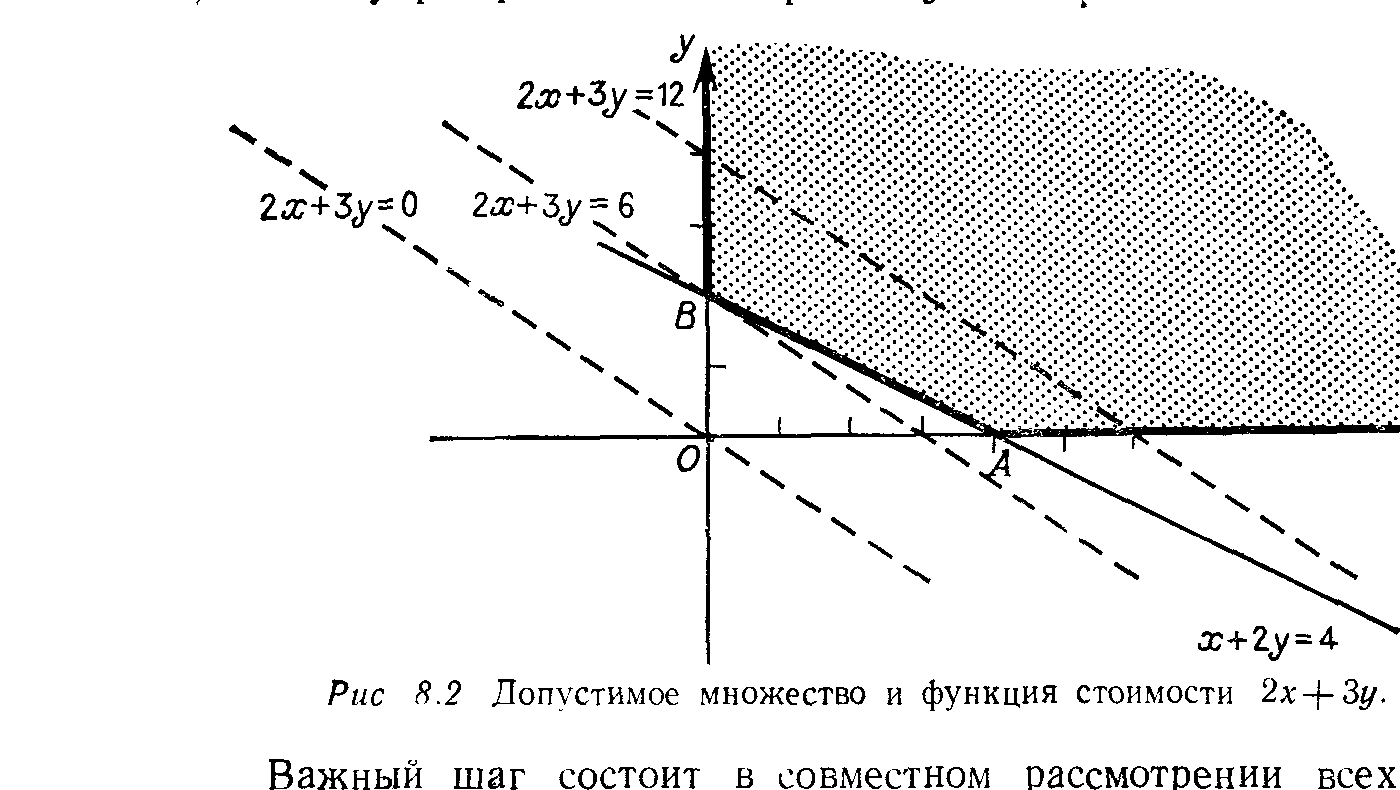
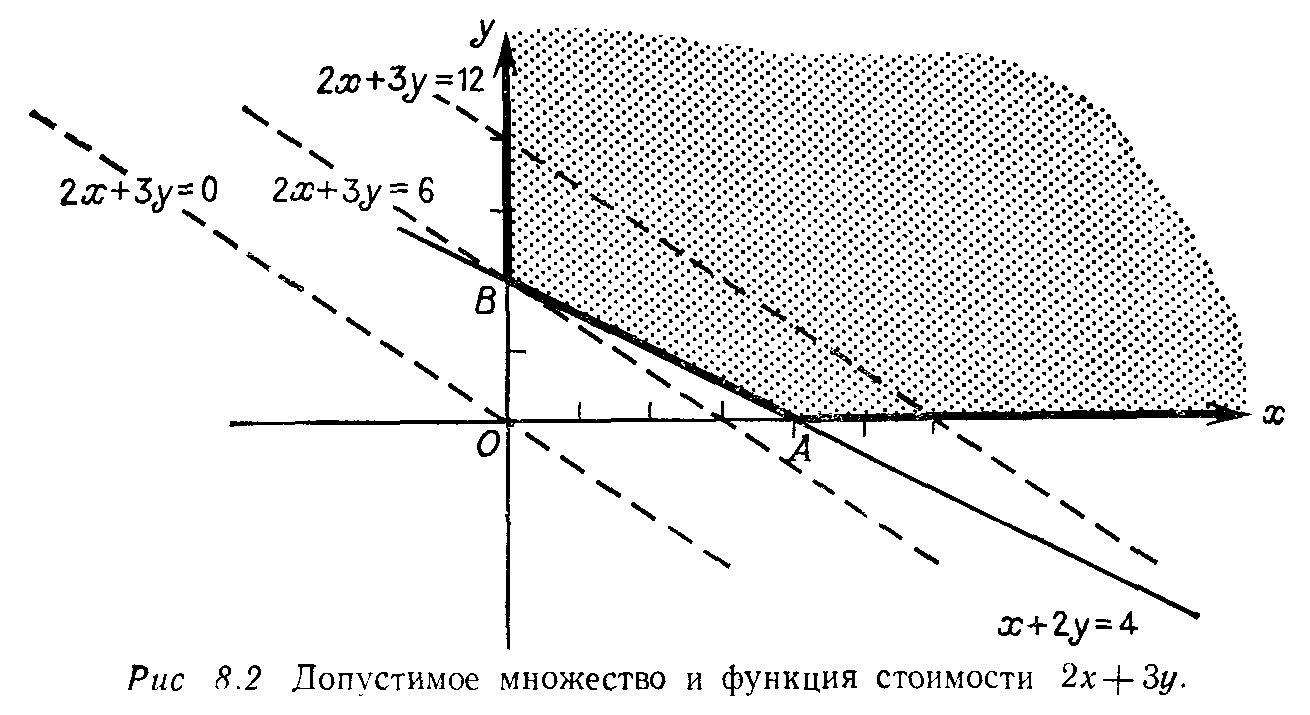
streng, reshebnik_beklemishev, sbornik_zadach, kostrikin_manin: 13 рисунков вырезаны заново — убраны обрывки текста у кромки (GF107, п.131)
apokrif figures recrop --from-crop-check, codex:gpt-5.6-sol@medium.
streng стр. 100, 101, 319, 354; reshebnik стр. 10, 11, 31, 45;
sbornik стр. 83 (Рис. 5, 8); kostrikin_manin стр. 222 (два), 240.
kostrikin_manin стр. 238 не взят: модель оставила от «Рис. 7» один
чертёж из двух — переделывается отдельно со старым кадром как образцом.

Claude-Session: https://claude.ai/code/session_016LgTLBejBq8sH5fBJep17c

diff --git a/angem/sbornik_zadach/sbz_g04_s10_uravneniya_mnozhestv_i_elementarnaya_teoriya.md b/angem/sbornik_zadach/sbz_g04_s10_uravneniya_mnozhestv_i_elementarnaya_teoriya.md
@@ -63,13 +63,13 @@ $$\begin{cases}\alpha\left(\dfrac{x}{a}+\dfrac{y}{b}\right)=\beta z, \\ \beta\le
 
 ![Рис. 4](assets/sbz_g04_s10_uravneniya_mnozhestv_i_elementarnaya_teoriya/p83-fig4.png)
 
-![Рис. 5](assets/sbz_g04_s10_uravneniya_mnozhestv_i_elementarnaya_teoriya/p83-fig5.png)
+![Рис. 5](assets/sbz_g04_s10_uravneniya_mnozhestv_i_elementarnaya_teoriya/p83-fig1.png)
 
 ![Рис. 6](assets/sbz_g04_s10_uravneniya_mnozhestv_i_elementarnaya_teoriya/p83-fig6.png)
 
 ![Рис. 7](assets/sbz_g04_s10_uravneniya_mnozhestv_i_elementarnaya_teoriya/p83-fig7.png)
 
-![Рис. 8](assets/sbz_g04_s10_uravneniya_mnozhestv_i_elementarnaya_teoriya/p83-fig8.png)
+![Рис. 8](assets/sbz_g04_s10_uravneniya_mnozhestv_i_elementarnaya_teoriya/p83-fig2.png)
 
 ![Рис. 9](assets/sbz_g04_s10_uravneniya_mnozhestv_i_elementarnaya_teoriya/p83-fig9.png)
 

diff --git a/angem/kostrikin_manin/kostrikin_manin_g03_s09_konfiguratsii_dezarga_i_pappa.md b/angem/kostrikin_manin/kostrikin_manin_g03_s09_konfiguratsii_dezarga_i_pappa.md
@@ -34,7 +34,7 @@
 
 **4. Конфигурация Паппа.** Рассмотрим в проективной плоскости две разные прямые и две тройки лежащих на них попарно разных точек $p_1$, $p_2$, $p_3$ и $q_1$, $q_2$, $q_3$. Для любой пары различных индексов
 
-![Рис. 8](assets/kostrikin_manin_g03_s09_konfiguratsii_dezarga_i_pappa/p240-fig8.png)
+![Рис. 8](assets/kostrikin_manin_g03_s09_konfiguratsii_dezarga_i_pappa/p240-fig1.png)
 
 
 ---
